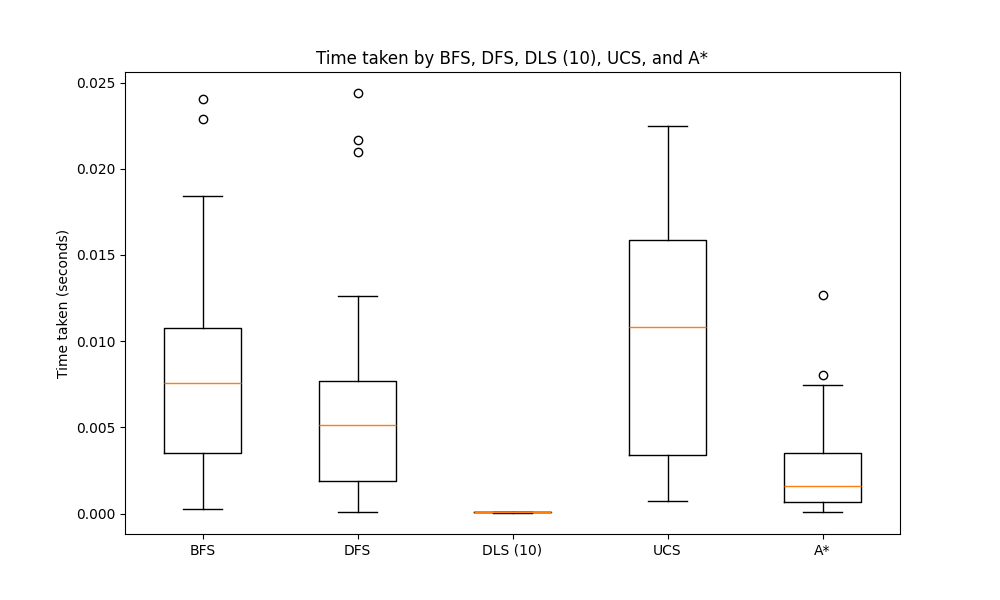
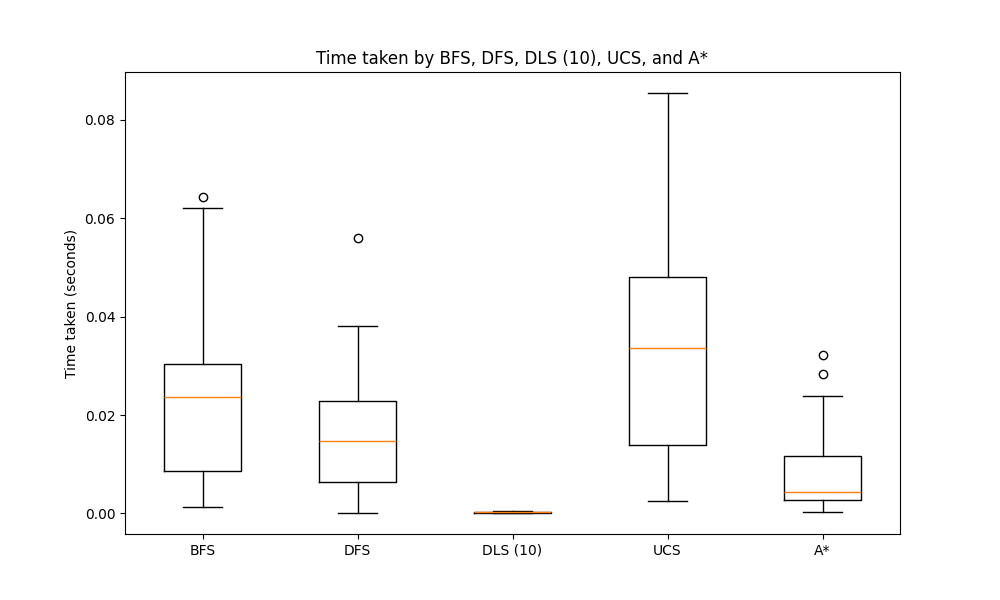
Update UCS cost

diff --git a/tp3-busquedas-no-informadas/code/algorithms/ucs.py b/tp3-busquedas-no-informadas/code/algorithms/ucs.py
@@ -77,7 +77,7 @@ def ucs(map: Map) -> WalkResults:
                 not map.is_pos_walkable(child_pos):
                 continue
             
-            child_cost = cost + action
+            child_cost = cost + action + 1
             child_cell: Cell = reached_nodes[child_pos[0]][child_pos[1]]
 
             # Cell reached for the first time
